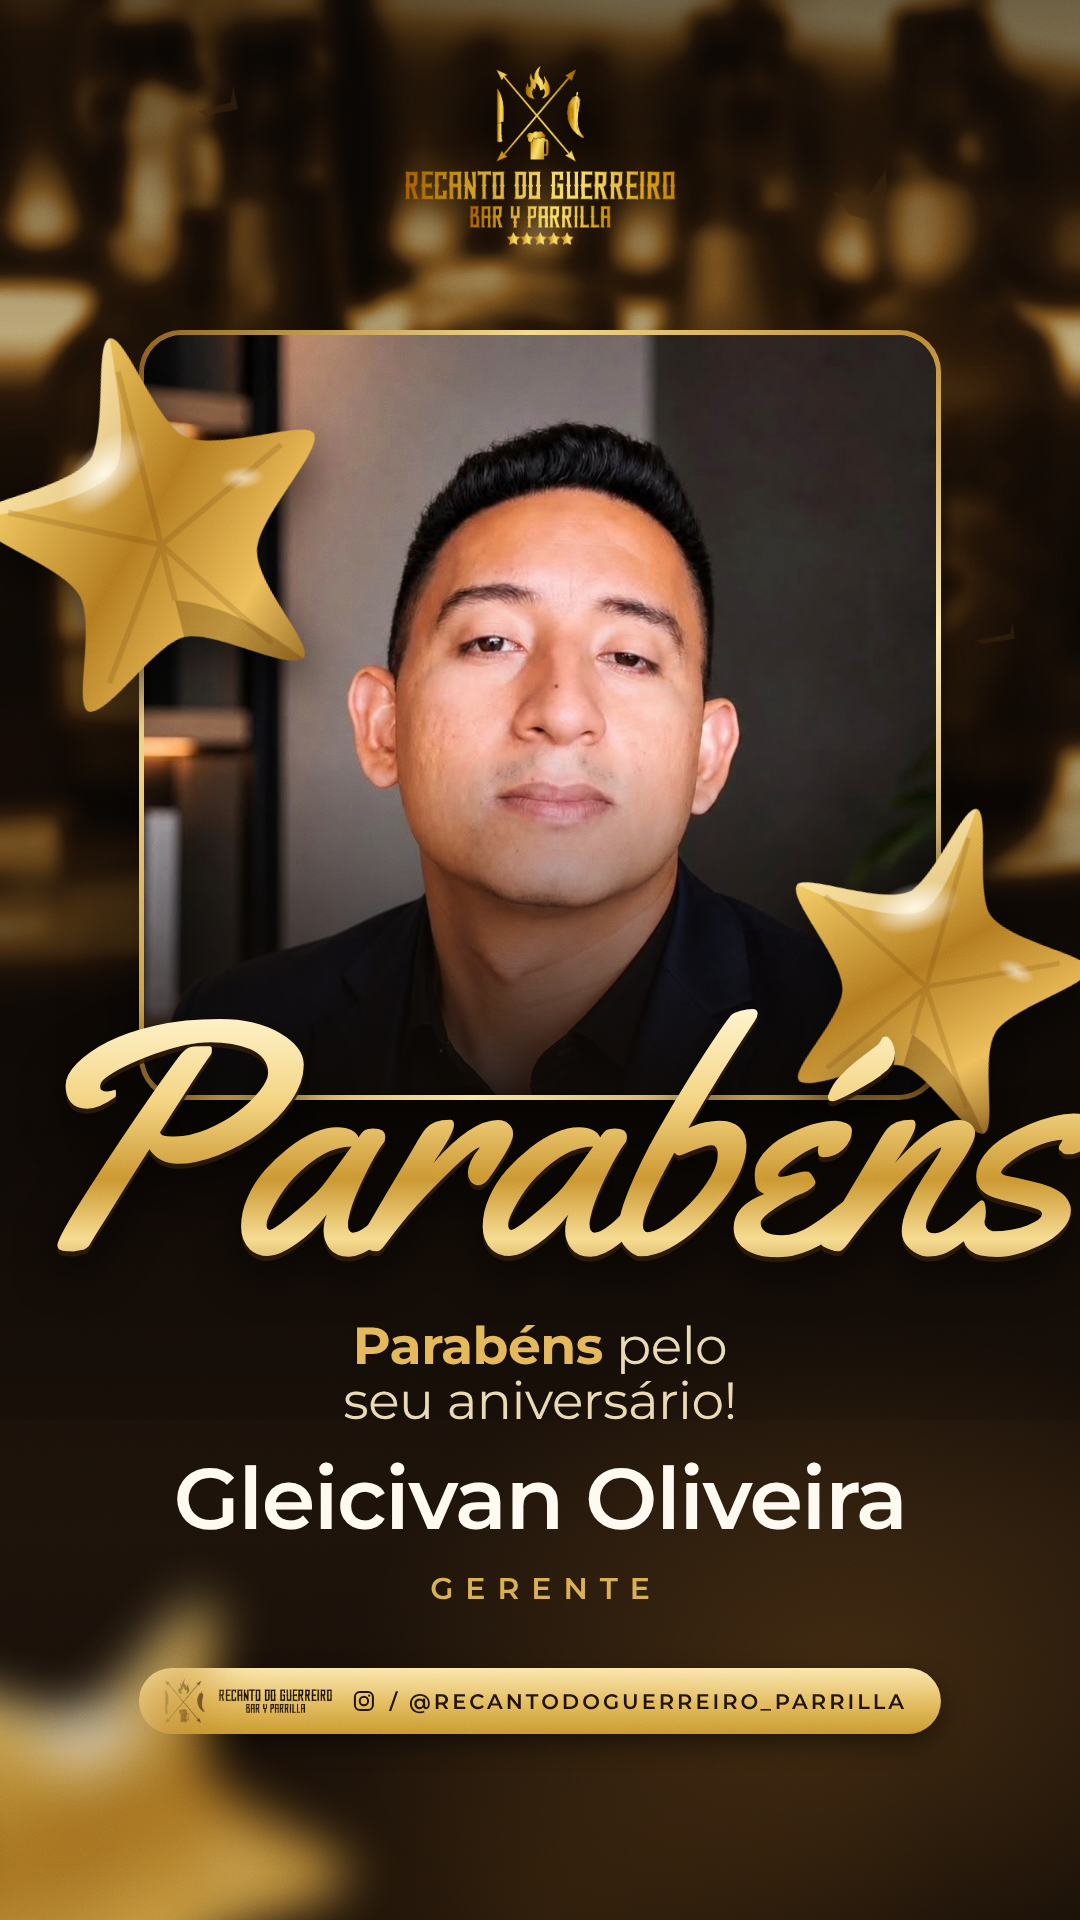
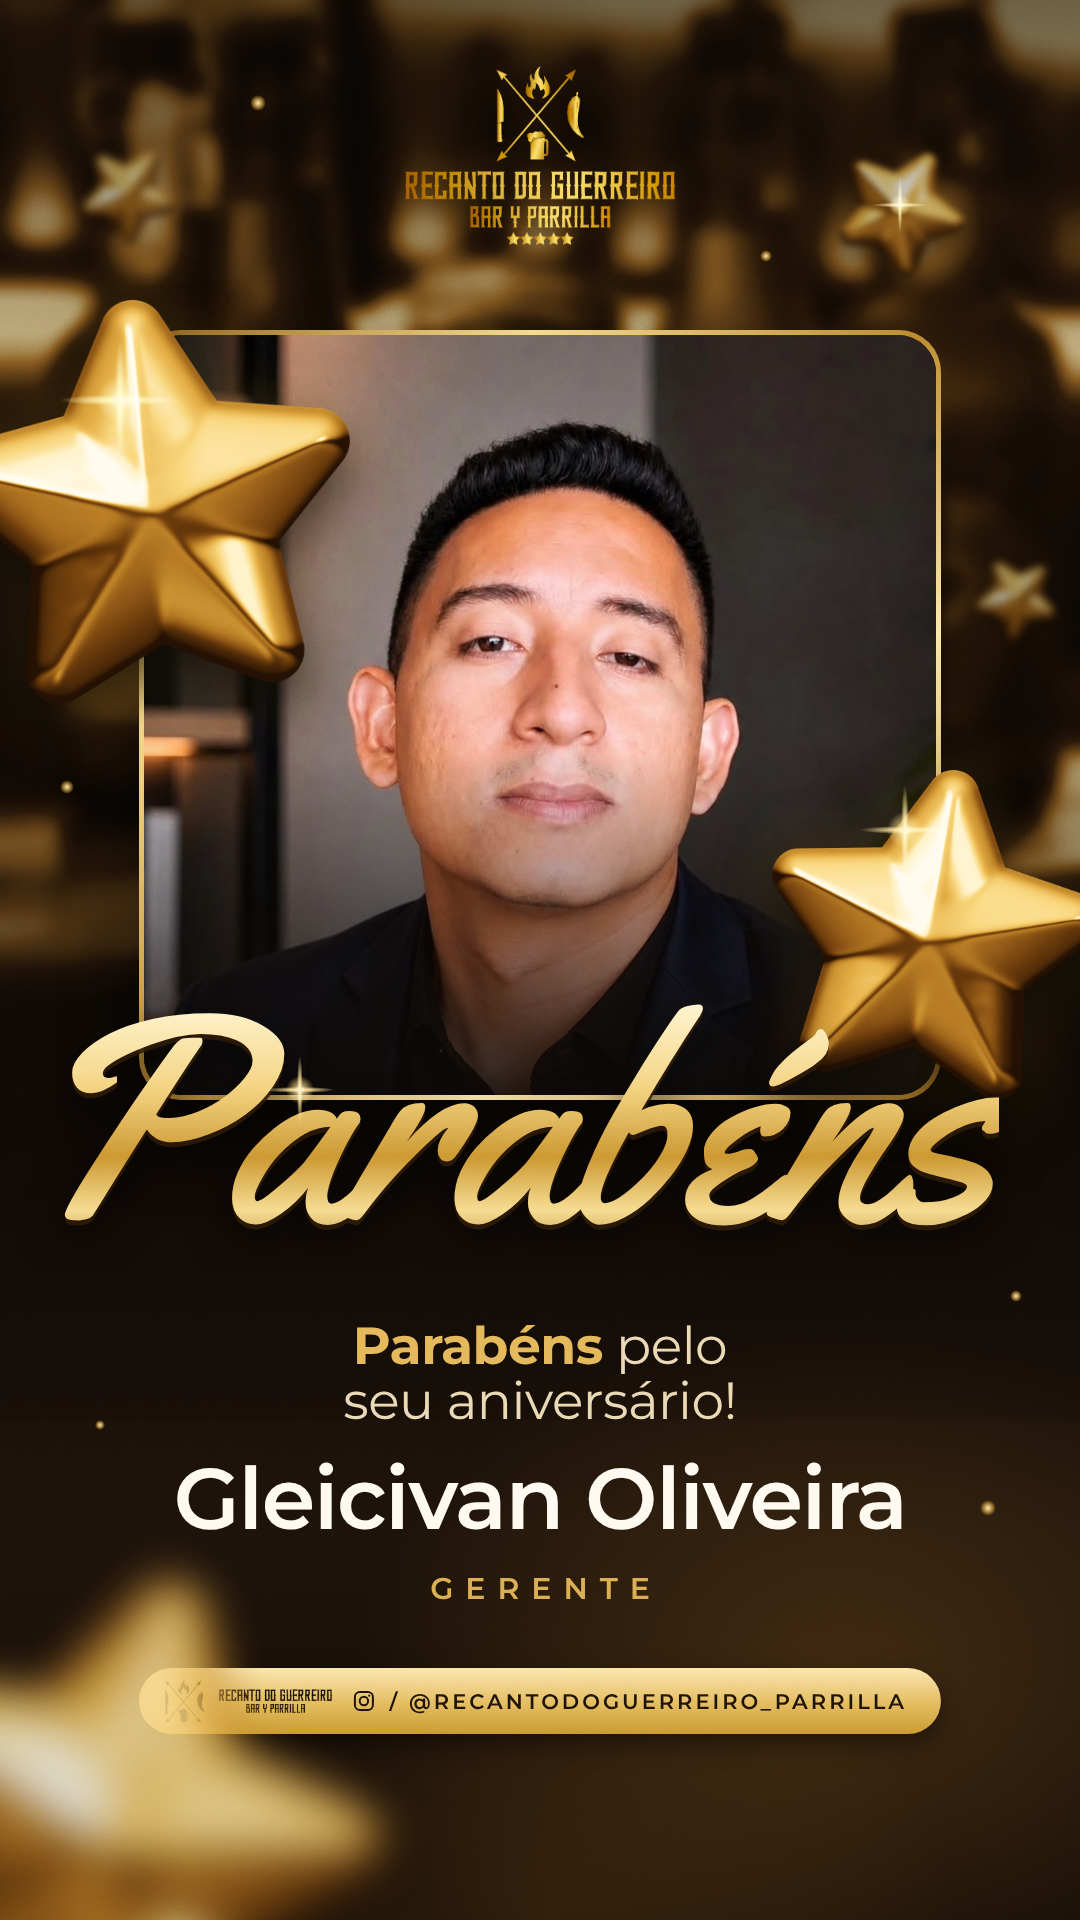
Use rendered 3D gold foil stars and center the headline
Claude-Session: https://claude.ai/code/session_01A9QVfkfA1k78E7aAR5J1cW

diff --git a/flyers/aniversario-gleicivan/flyer.html b/flyers/aniversario-gleicivan/flyer.html
@@ -6,15 +6,13 @@
 html,body{width:1080px;height:1920px;background:#0b0705;overflow:hidden}
 .c{position:relative;width:1080px;height:1920px;overflow:hidden;font-family:'Montserrat',sans-serif;
   background:linear-gradient(180deg,#0b0705 0%,#130c07 55%,#1c120a 80%,#120b06 100%)}
-/* fundo: balcão do bar do Recanto, desfocado, em duotone dourado (como os balões do modelo) */
 .bg{position:absolute;left:0;top:0;width:1080px;height:1400px;background:url(bg_duotone.jpg) center top/cover;opacity:.85}
 .bgfade{position:absolute;left:0;top:0;width:1080px;height:1420px;
   background:linear-gradient(180deg,rgba(8,5,3,.55) 0%,rgba(8,5,3,.15) 25%,rgba(10,6,4,.25) 55%,rgba(16,10,6,.92) 82%,#160e08 100%)}
 .glow{position:absolute;inset:0;background:
   radial-gradient(700px 520px at 78% 88%,rgba(196,128,44,.22),transparent 70%),
   radial-gradient(600px 400px at 50% 100%,rgba(150,95,30,.18),transparent 70%)}
-.grain{position:absolute;inset:0;opacity:.22;mix-blend-mode:overlay}
-.dstar{position:absolute;fill:#3a240d;opacity:.55}
+.grain{position:absolute;inset:0;opacity:.22;mix-blend-mode:overlay;pointer-events:none}
 
 .logo{position:absolute;top:66px;left:50%;transform:translateX(-50%);width:270px;
   filter:drop-shadow(0 6px 16px rgba(0,0,0,.75))}
@@ -26,10 +24,22 @@ html,body{width:1080px;height:1920px;background:#0b0705;overflow:hidden}
 .card img{position:absolute;left:50%;top:-58px;height:118%;transform:translateX(-50%)}
 .card .shade{position:absolute;inset:0;background:linear-gradient(180deg,rgba(0,0,0,0) 55%,rgba(14,9,5,.55) 82%,rgba(14,9,5,.9) 100%)}
 
-.star{position:absolute;filter:drop-shadow(0 20px 22px rgba(0,0,0,.55))}
+/* estrelas 3D (PNG renderizado) */
+.s3d{position:absolute;filter:drop-shadow(0 26px 24px rgba(0,0,0,.6)) drop-shadow(0 0 30px rgba(230,170,60,.18))}
+.sbg{position:absolute;filter:blur(3px) brightness(.8) drop-shadow(0 10px 12px rgba(0,0,0,.5));opacity:.9}
+.sfg{position:absolute;filter:blur(22px);opacity:.85}
 
-.script{position:absolute;left:-10px;right:-10px;top:975px;text-align:center;white-space:nowrap;
-  font-family:'Yellowtail',cursive;font-size:330px;line-height:1;letter-spacing:-4px;
+/* brilhos */
+.spk{position:absolute;width:var(--s);height:var(--s);transform:translate(-50%,-50%);mix-blend-mode:screen}
+.spk:before,.spk:after{content:"";position:absolute;left:50%;top:50%;transform:translate(-50%,-50%);
+  background:radial-gradient(closest-side,#fffbe9,rgba(255,226,150,.85) 30%,rgba(255,200,90,0))}
+.spk:before{width:100%;height:9%;border-radius:50%}
+.spk:after{width:9%;height:100%;border-radius:50%}
+.spk i{position:absolute;inset:30%;border-radius:50%;background:radial-gradient(closest-side,#fff,rgba(255,220,140,.6) 40%,transparent)}
+.dust{position:absolute;border-radius:50%;background:radial-gradient(circle,#ffe9a8,rgba(230,170,60,.5) 45%,transparent 70%)}
+
+.script{position:absolute;top:975px;left:0;white-space:nowrap;
+  font-family:'Yellowtail',cursive;font-size:330px;line-height:1;
   background:linear-gradient(180deg,#fff4cc 10%,#f4d27c 38%,#c9922f 62%,#f6da8a 80%,#a8741f 100%);
   -webkit-background-clip:text;background-clip:text;color:transparent;
   filter:drop-shadow(0 5px 0 rgba(45,26,7,.85)) drop-shadow(0 14px 22px rgba(0,0,0,.6))}
@@ -44,52 +54,36 @@ html,body{width:1080px;height:1920px;background:#0b0705;overflow:hidden}
   background:linear-gradient(180deg,#fbe6a8,#e2b85a 55%,#c7952f);box-shadow:0 10px 26px rgba(0,0,0,.45)}
 .pill .em{height:44px}
 .pill .wm{height:24px}
-.pill .ic{display:flex;gap:8px;margin-left:6px}
-.pill .ic svg{width:24px;height:24px}
+.pill svg{width:24px;height:24px;margin-left:6px}
 .pill span{font-weight:600;font-size:21px;letter-spacing:3px;color:#1e1208}
-
-.blob{position:absolute;filter:blur(26px);opacity:.9}
 </style></head>
 <body><div class="c">
   <div class="bg"></div>
   <div class="bgfade"></div>
   <div class="glow"></div>
 
-  <svg width="0" height="0" style="position:absolute">
-    <defs>
-      <path id="p5" d="M50 4 L61.8 36.2 L96 38.2 L69.2 59.4 L78.4 92.6 L50 73.4 L21.6 92.6 L30.8 59.4 L4 38.2 L38.2 36.2Z"/>
-      <linearGradient id="g1" x1="0" y1="0" x2="1" y2="1">
-        <stop offset="0" stop-color="#fff3c0"/><stop offset=".22" stop-color="#f0c45c"/>
-        <stop offset=".5" stop-color="#b0761f"/><stop offset=".75" stop-color="#eebc58"/><stop offset="1" stop-color="#6e420f"/>
-      </linearGradient>
-      <radialGradient id="hl" cx=".5" cy=".5" r=".5"><stop offset="0" stop-color="#fffbe6" stop-opacity=".95"/><stop offset="1" stop-color="#fff" stop-opacity="0"/></radialGradient>
-      <symbol id="star" viewBox="0 0 200 200">
-        <path d="M100 8 C108 8 112 50 124 66 C138 80 188 74 192 82 C196 92 152 118 148 136 C144 154 166 192 158 196 C148 200 116 170 100 170 C84 170 52 200 42 196 C34 192 56 154 52 136 C48 118 4 92 8 82 C12 74 62 80 76 66 C88 50 92 8 100 8Z" fill="url(#g1)"/>
-        <path d="M100 8 C92 8 88 50 76 66 C62 80 12 74 8 82 C30 86 70 88 86 76 C96 66 98 30 100 8Z" fill="#fff6d0" opacity=".5"/>
-        <path d="M100 170 C116 170 148 200 158 196 C150 186 130 160 100 150Z" fill="#5a3409" opacity=".35"/>
-        <path d="M100 26 L100 150 M26 84 L100 120 L174 84 M56 184 L100 120 L144 184" stroke="#6e420f" stroke-opacity=".22" stroke-width="3" fill="none"/>
-        <ellipse cx="80" cy="76" rx="28" ry="15" fill="url(#hl)" transform="rotate(-32 80 76)"/>
-        <ellipse cx="150" cy="96" rx="12" ry="6" fill="url(#hl)" opacity=".7" transform="rotate(10 150 96)"/>
-      </symbol>
-    </defs>
-  </svg>
+  <!-- estrelas 3D pequenas ao fundo (profundidade) -->
+  <img class="sbg" src="star_s1.png" style="left:845px;top:150px;width:120px;transform:rotate(12deg)">
+  <img class="sbg" src="star_s2.png" style="left:80px;top:150px;width:90px;transform:rotate(-18deg);filter:blur(5px) brightness(.7)">
+  <img class="sbg" src="star_s2.png" style="left:975px;top:560px;width:78px;transform:rotate(-10deg);filter:blur(4px) brightness(.7)">
 
-  <!-- estrelinhas de fundo (como no modelo) -->
-  <svg class="dstar" style="left:190px;top:70px;width:44px;height:44px;transform:rotate(-12deg)"><use href="#p5"/></svg>
-  <svg class="dstar" style="left:830px;top:160px;width:56px;height:56px;transform:rotate(15deg)"><use href="#p5"/></svg>
-  <svg class="dstar" style="left:950px;top:330px;width:38px;height:38px"><use href="#p5"/></svg>
-  <svg class="dstar" style="left:60px;top:250px;width:30px;height:30px;transform:rotate(20deg)"><use href="#p5"/></svg>
-  <svg class="dstar" style="left:970px;top:600px;width:42px;height:42px;transform:rotate(-8deg)"><use href="#p5"/></svg>
+  <!-- pó dourado -->
+  <div class="dust" style="left:250px;top:95px;width:16px;height:16px"></div>
+  <div class="dust" style="left:760px;top:250px;width:12px;height:12px"></div>
+  <div class="dust" style="left:60px;top:780px;width:14px;height:14px"></div>
+  <div class="dust" style="left:1010px;top:1290px;width:12px;height:12px"></div>
+  <div class="dust" style="left:95px;top:1420px;width:10px;height:10px"></div>
+  <div class="dust" style="left:980px;top:1500px;width:16px;height:16px"></div>
 
   <img class="logo" src="logo.png">
 
   <div class="card"><div class="in"><img src="foto.jpg"><div class="shade"></div></div></div>
 
-  <!-- balões estrela dourados nas mesmas posições do modelo -->
-  <svg class="star" style="left:-38px;top:318px;width:380px;height:380px;transform:rotate(-14deg)"><use href="#star"/></svg>
-  <svg class="star" style="left:770px;top:790px;width:330px;height:330px;transform:rotate(16deg)"><use href="#star"/></svg>
+  <!-- balões estrela 3D nas posições do modelo -->
+  <img class="s3d" src="star_right.png" style="left:772px;top:770px;width:330px">
+  <img class="s3d" src="star_left.png" style="left:-60px;top:300px;width:410px">
 
-  <div class="script">Parabéns</div>
+  <div class="script" id="script">Parabéns</div>
 
   <div class="sub"><b>Parabéns</b> pelo<br>seu aniversário!</div>
   <div class="name">Gleicivan Oliveira</div>
@@ -98,14 +92,36 @@ html,body{width:1080px;height:1920px;background:#0b0705;overflow:hidden}
   <div class="pill">
     <img class="em" src="emblem_dark.png">
     <img class="wm" src="wordmark_dark.png">
-    <div class="ic">
-      <svg viewBox="0 0 24 24" fill="none" stroke="#1e1208" stroke-width="2"><rect x="3" y="3" width="18" height="18" rx="5"/><circle cx="12" cy="12" r="4.2"/><circle cx="17.3" cy="6.7" r="1.1" fill="#1e1208" stroke="none"/></svg>
-    </div>
+    <svg viewBox="0 0 24 24" fill="none" stroke="#1e1208" stroke-width="2"><rect x="3" y="3" width="18" height="18" rx="5"/><circle cx="12" cy="12" r="4.2"/><circle cx="17.3" cy="6.7" r="1.1" fill="#1e1208" stroke="none"/></svg>
     <span>/ @RECANTODOGUERREIRO_PARRILLA</span>
   </div>
 
-  <!-- balão desfocado em primeiro plano (como a mancha laranja do modelo) -->
-  <svg class="star blob" style="left:-150px;top:1560px;width:520px;height:520px;transform:rotate(24deg)"><use href="#star"/></svg>
+  <!-- brilhos nos balões e no texto -->
+  <div class="spk" style="--s:120px;left:120px;top:400px"><i></i></div>
+  <div class="spk" style="--s:90px;left:905px;top:830px"><i></i></div>
+  <div class="spk" style="--s:70px;left:300px;top:1090px"><i></i></div>
+  <div class="spk" style="--s:56px;left:900px;top:205px"><i></i></div>
+
+  <!-- balão desfocado em primeiro plano (como no modelo) -->
+  <img class="sfg" src="star_left.png" style="left:-170px;top:1570px;width:540px;transform:rotate(22deg)">
 
   <svg class="grain" width="1080" height="1920"><filter id="n"><feTurbulence type="fractalNoise" baseFrequency=".9" numOctaves="3" stitchTiles="stitch"/><feColorMatrix values="0 0 0 0 .5  0 0 0 0 .5  0 0 0 0 .5  0 0 0 1.3 0"/></filter><rect width="100%" height="100%" filter="url(#n)"/></svg>
-</div></body></html>
+</div>
+<script>
+// centraliza o "Parabéns" pela tinta real das letras (fontes script têm laterais irregulares)
+window.centerScript = async () => {
+  await document.fonts.ready;
+  const el = document.getElementById('script');
+  const ctx = document.createElement('canvas').getContext('2d');
+  const target = 960;               // largura máxima da palavra
+  let fs = 330;
+  ctx.font = fs + 'px Yellowtail';
+  let m = ctx.measureText('Parabéns');
+  let ink = m.actualBoundingBoxLeft + m.actualBoundingBoxRight;
+  if (ink > target) { fs = Math.floor(fs * target / ink); ctx.font = fs + 'px Yellowtail'; m = ctx.measureText('Parabéns'); ink = m.actualBoundingBoxLeft + m.actualBoundingBoxRight; }
+  el.style.fontSize = fs + 'px';
+  el.style.left = ((1080 - ink) / 2 + m.actualBoundingBoxLeft) + 'px';
+  return {fs, ink, left: el.style.left};
+};
+</script>
+</body></html>

diff --git a/flyers/aniversario-gleicivan/render.js b/flyers/aniversario-gleicivan/render.js
@@ -1,4 +1,5 @@
 const {chromium}=require('playwright');
 (async()=>{const b=await chromium.launch();const p=await b.newPage({viewport:{width:1080,height:1920},deviceScaleFactor:1});
-await p.goto('file://'+process.cwd()+'/'+(process.argv[3]||'flyer.html'));await p.evaluate(()=>document.fonts.ready);await p.waitForTimeout(400);
-await p.screenshot({path:process.argv[2]||'flyer.png'});await b.close();})();
+await p.goto('file://'+process.cwd()+'/'+(process.argv[3]||'flyer.html'));await p.evaluate(()=>document.fonts.ready);
+const r=await p.evaluate(()=>window.centerScript?window.centerScript():null); if(r) console.log(JSON.stringify(r));
+await p.waitForTimeout(400);await p.screenshot({path:process.argv[2]||'flyer.png'});await b.close();})();

diff --git a/flyers/aniversario-gleicivan/estrelas-3d/star3d.py b/flyers/aniversario-gleicivan/estrelas-3d/star3d.py
@@ -1,0 +1,116 @@
+"""Render a gold foil star balloon (3D look) to a transparent PNG using numpy only."""
+import sys
+import numpy as np
+from PIL import Image
+
+
+def seg_dist(px, py, ax, ay, bx, by):
+    abx, aby = bx - ax, by - ay
+    t = ((px - ax) * abx + (py - ay) * aby) / (abx * abx + aby * aby)
+    t = np.clip(t, 0, 1)
+    dx, dy = px - (ax + t * abx), py - (ay + t * aby)
+    return np.sqrt(dx * dx + dy * dy)
+
+
+def inside(px, py, poly):
+    c = np.zeros(px.shape, bool)
+    n = len(poly)
+    for i in range(n):
+        x1, y1 = poly[i]
+        x2, y2 = poly[(i + 1) % n]
+        cond = ((y1 > py) != (y2 > py)) & (px < (x2 - x1) * (py - y1) / (y2 - y1 + 1e-12) + x1)
+        c ^= cond
+    return c
+
+
+def blur(a, r):
+    # separable box blur x3 ~ gaussian
+    for _ in range(3):
+        for ax in (0, 1):
+            k = 2 * r + 1
+            p = np.pad(a, [(r, r) if i == ax else (0, 0) for i in range(2)], mode="edge")
+            c = np.cumsum(p, axis=ax)
+            c = np.insert(c, 0, 0, axis=ax)
+            if ax == 0:
+                a = (c[k:, :] - c[:-k, :]) / k
+            else:
+                a = (c[:, k:] - c[:, :-k]) / k
+    return a
+
+
+def render(size=1100, inner=0.50, tip_round=0.10, puff=0.55, light_seed=0, out="star.png", soft=3, key=1.10, rot=0.0):
+    S = size
+    ys, xs = np.mgrid[0:S, 0:S].astype(np.float32)
+    cx = cy = S / 2
+    u = (xs - cx) / (S / 2)
+    v = (ys - cy) / (S / 2) - 0.05
+    R = 0.86 - tip_round
+    poly = []
+    for i in range(10):
+        ang = -np.pi / 2 + rot + i * np.pi / 5
+        rr = R if i % 2 == 0 else R * inner
+        poly.append((rr * np.cos(ang), rr * np.sin(ang)))
+    d = np.full(u.shape, 1e9, np.float32)
+    for i in range(10):
+        ax, ay = poly[i]
+        bx, by = poly[(i + 1) % 10]
+        d = np.minimum(d, seg_dist(u, v, ax, ay, bx, by))
+    ins = inside(u, v, poly)
+    sd = np.where(ins, -d, d)              # signed distance to sharp star
+    dist = tip_round - sd                  # distance to rounded (dilated) outline, >0 inside
+    pix = 2.0 / S
+    alpha = np.clip(dist / pix + 0.5, 0, 1)
+
+    D = dist.max()
+    t = np.clip(dist / D, 0, 1)
+    h = np.sqrt(1 - (1 - t) ** 2.0)        # pillow profile
+    h = 0.75 * h + 0.25 * t
+    # crimped seam ripple near the edge
+    ang = np.arctan2(v, u)
+    seam = np.exp(-(dist / (0.035)) ** 2)
+    h = h - 0.035 * seam + 0.0025 * np.sin(ang * 140) * seam
+    # soft foil wrinkles
+    rng = np.random.default_rng(light_seed + 7)
+    noise = blur(rng.standard_normal(u.shape).astype(np.float32), 9)
+    noise /= np.abs(noise).max() + 1e-6
+    h = h + 0.012 * noise * t
+    h = blur(h.astype(np.float32), soft)
+    h *= puff * D * (S / 2)
+
+    hy, hx = np.gradient(h)
+    nx, ny, nz = -hx, -hy, np.ones_like(h)
+    nn = np.sqrt(nx * nx + ny * ny + nz * nz)
+    nx, ny, nz = nx / nn, ny / nn, nz / nn
+    # reflection of view vector (0,0,1); image y points down -> up = -y
+    rx, ry, rz = 2 * nz * nx, 2 * nz * ny, 2 * nz * nz - 1
+    up = -ry
+
+    def lobe(lx, ly, lz, p):
+        l = np.array([lx, -ly, lz], np.float32)
+        l /= np.linalg.norm(l)
+        return np.clip(rx * l[0] + ry * l[1] + rz * l[2], 0, 1) ** p
+
+    env = 0.42 + 0.40 * up
+    env -= 0.42 * np.exp(-((up + 0.05) / 0.20) ** 2)          # dark horizon band
+    env += key * lobe(-0.55, 0.70, 0.55, 18)
+    env += 0.9 * lobe(-0.30, 0.45, 0.85, 60)                 # key softbox top-left
+    env += 0.55 * lobe(0.85, 0.25, 0.35, 26)                  # rim right
+    env += 0.35 * lobe(-0.2, -0.85, 0.3, 10)                  # warm bounce from below
+    env += 0.25 * nz ** 3                                     # front fill
+    env -= 0.25 * seam
+    env = np.clip(env, 0, 1.6)
+
+    stops = np.array([0.0, 0.22, 0.45, 0.68, 0.88, 1.05, 1.6])
+    cols = np.array([[34, 16, 3], [104, 58, 12], [178, 116, 34], [228, 170, 66],
+                     [250, 214, 120], [255, 242, 196], [255, 252, 238]], np.float32)
+    rgb = np.stack([np.interp(env, stops, cols[:, k]) for k in range(3)], -1)
+    img = np.dstack([rgb, alpha[..., None] * 255]).clip(0, 255).astype(np.uint8)
+    im = Image.fromarray(img, "RGBA")
+    bb = im.getchannel("A").getbbox()
+    im = im.crop(bb)
+    im.save(out)
+    return out
+
+
+if __name__ == "__main__":
+    render(out=sys.argv[1] if len(sys.argv) > 1 else "star.png")
